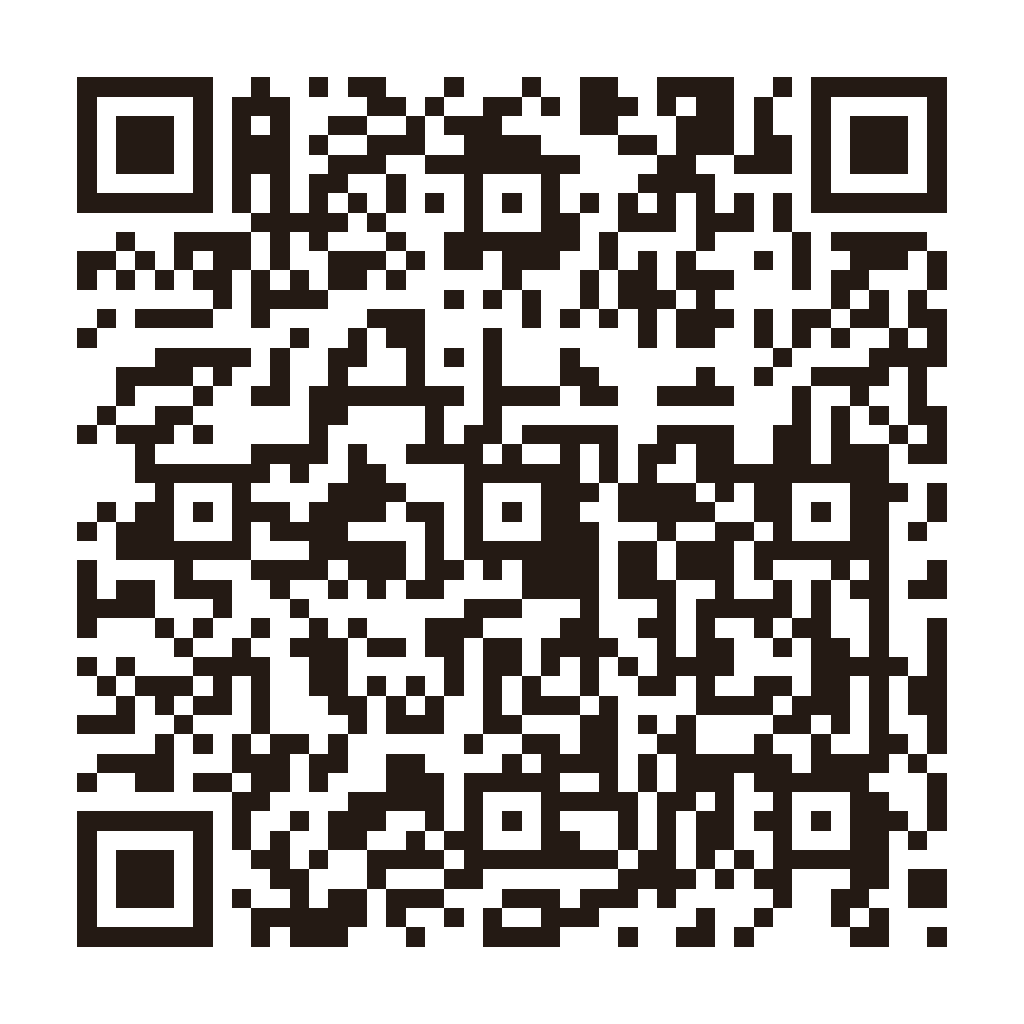
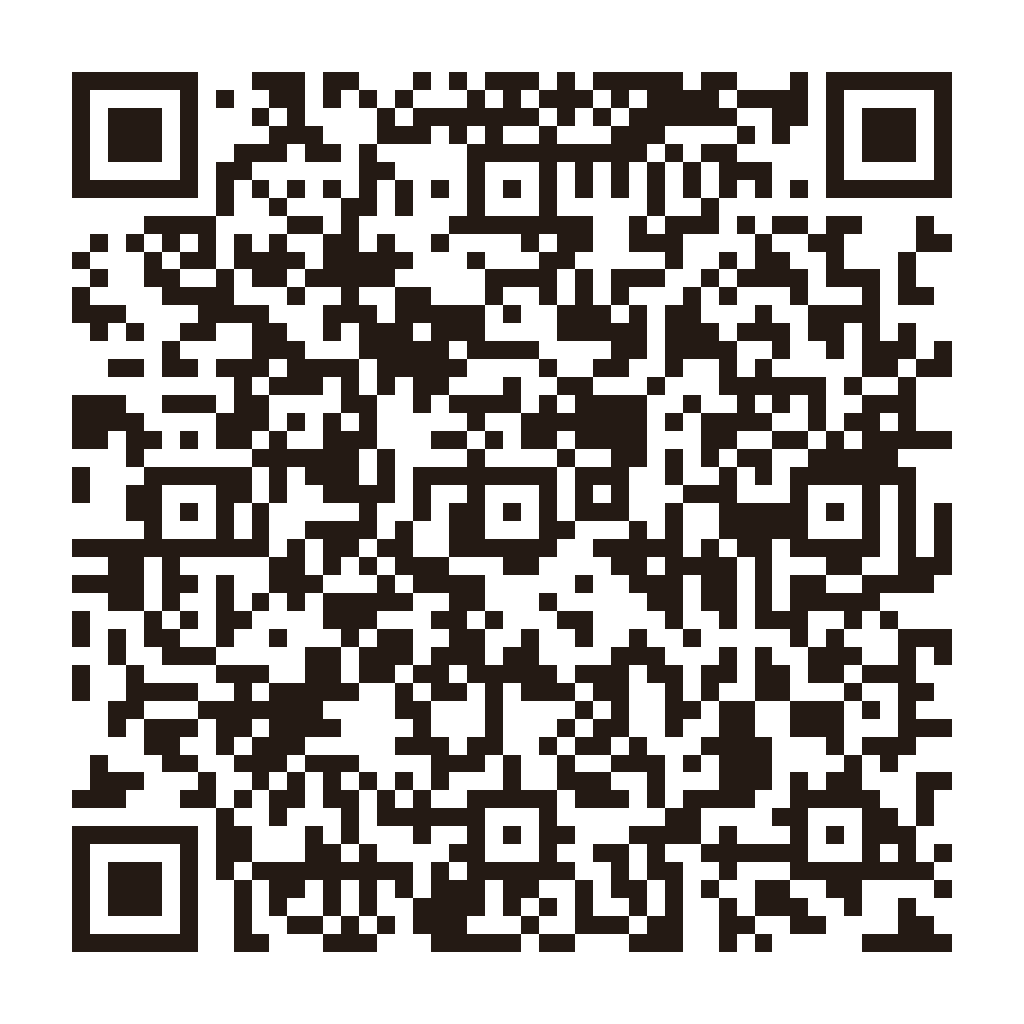
fix: cache-bust QR targets to always open landing page

diff --git a/README.md b/README.md
@@ -10,6 +10,8 @@
 | Dobamina | https://mahmoudazmy2050-ui.github.io/cafe-Resturant/dobamina/ |
 | Kalamantina | https://mahmoudazmy2050-ui.github.io/cafe-Resturant/kalamantina/ |
 
+> رموز QR المطبوعة تشير إلى الرابطين نفسهما مع `?v=2` لتفادي نسخة المتصفح القديمة المحفوظة (Cache-Control: max-age=600). الرابط بدون البارامتر يعمل بشكل طبيعي بعد انتهاء مدة الحفظ.
+
 ## تفعيل النشر
 
 من `Settings → Pages`: اختر **Deploy from a branch**، ثم `main` و `/ (root)`، واحفظ.
